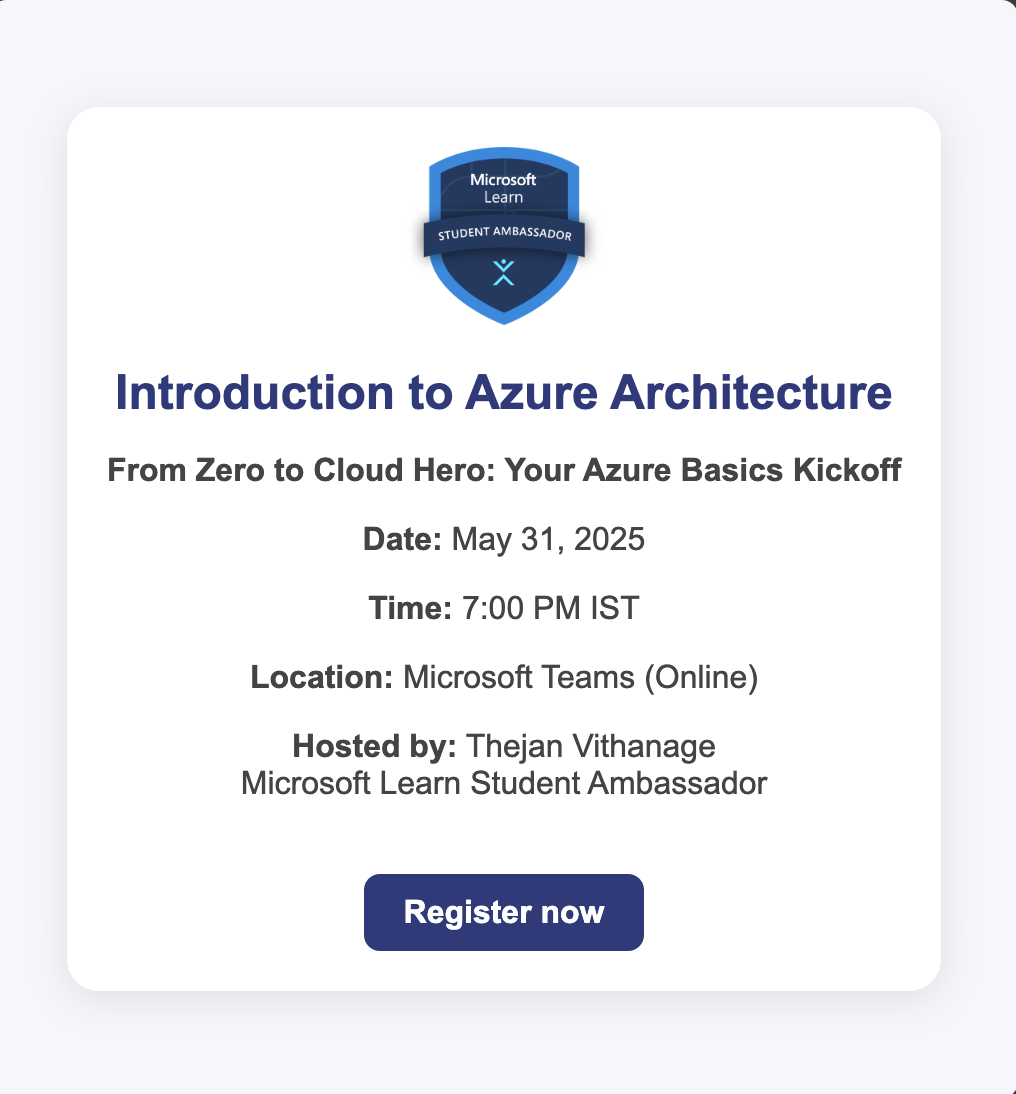
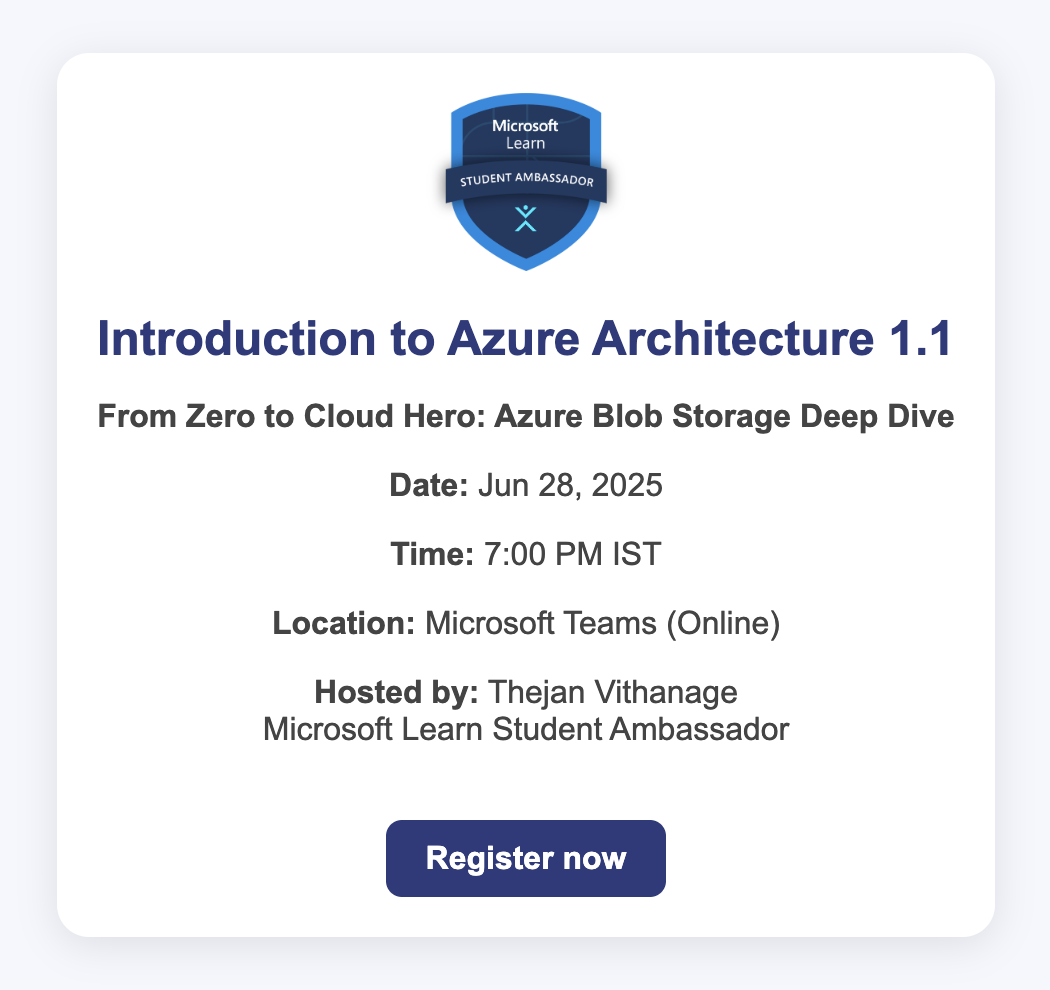
1.1 code change

diff --git a/index.html b/index.html
@@ -3,7 +3,7 @@
   <head>
     <meta charset="UTF-8" />
     <meta name="viewport" content="width=device-width, initial-scale=1.0" />
-    <title>Introduction to Azure Architecture</title>
+    <title>Introduction to Azure Architecture 1.1</title>
     <style>
       body {
         font-family: Arial, sans-serif;
@@ -54,10 +54,16 @@
   </head>
   <body>
     <div class="container">
-      <img src="mlsa.png" alt="Azure Architecture Event" class="event-image" />
-      <h1>Introduction to Azure Architecture</h1>
-      <p><strong>From Zero to Cloud Hero: Your Azure Basics Kickoff</strong></p>
-      <p><strong>Date:</strong> May 31, 2025</p>
+      <img
+        src="mlsa.png"
+        alt="Azure Architecture Event 1.1"
+        class="event-image"
+      />
+      <h1>Introduction to Azure Architecture 1.1</h1>
+      <p>
+        <strong>From Zero to Cloud Hero: Azure Blob Storage Deep Dive</strong>
+      </p>
+      <p><strong>Date:</strong> Jun 28, 2025</p>
       <p><strong>Time:</strong> 7:00 PM IST</p>
       <p><strong>Location:</strong> Microsoft Teams (Online)</p>
       <p>
